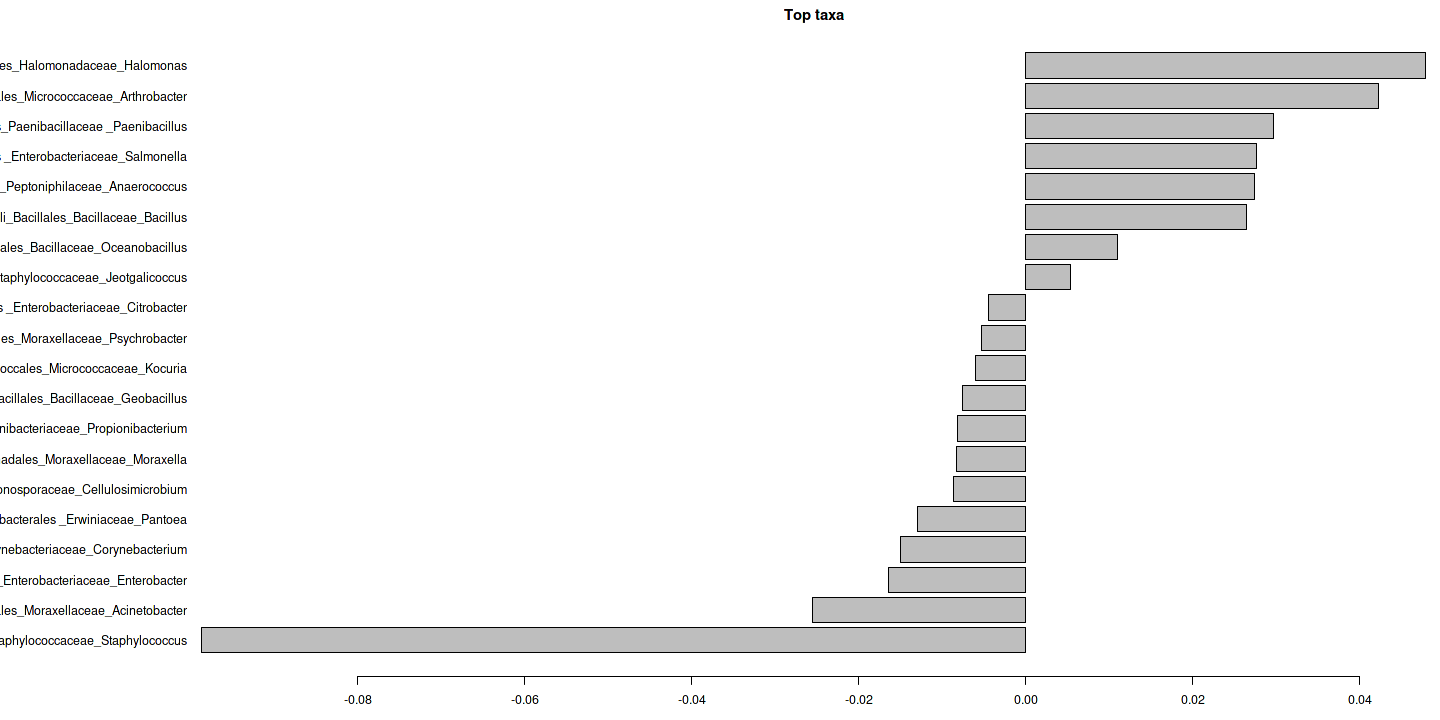
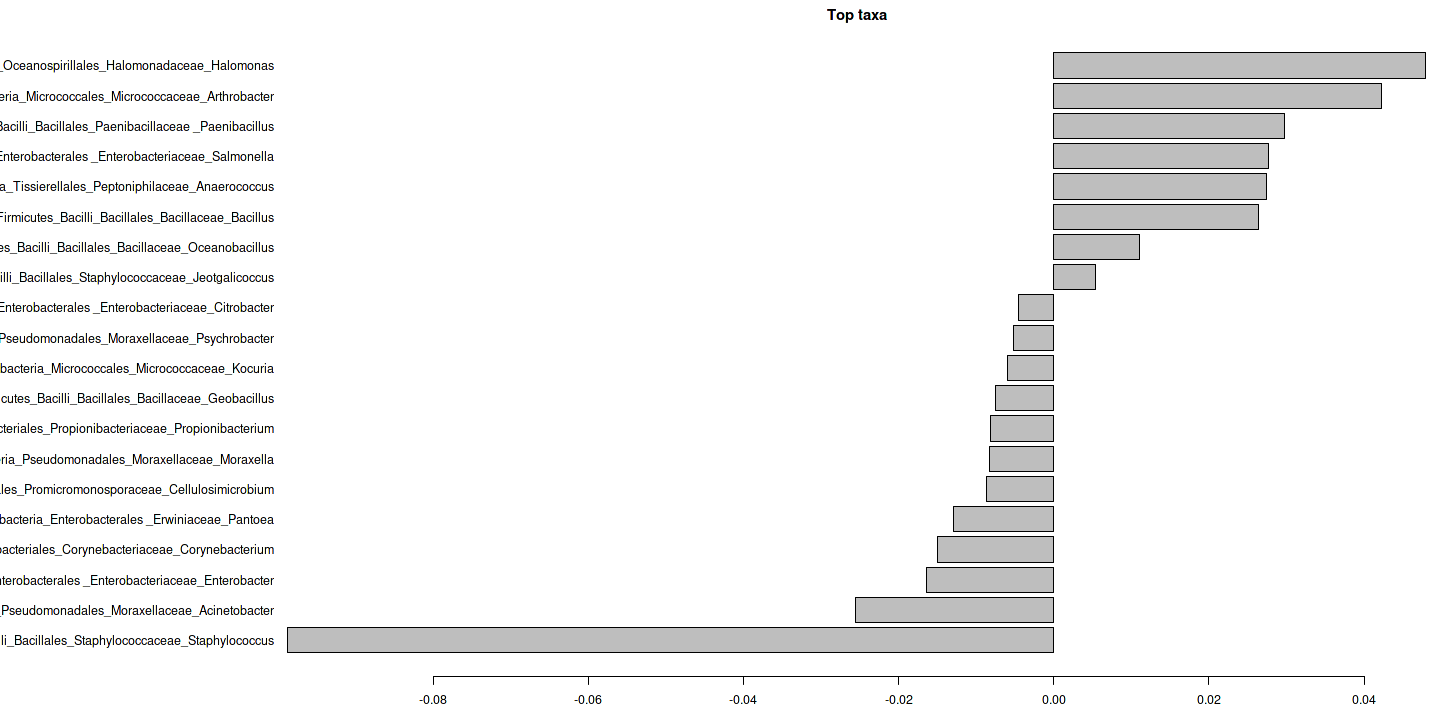
ok

diff --git a/locationanalysis.md b/locationanalysis.md
@@ -96,7 +96,7 @@ coef <- coefficients(permanova)["Geographical_location1", ]
 top.coef <- coef[rev(order(abs(coef)))[1:20]]
 names(top.coef) <- full.names[names(top.coef)]
 
-par(mar = c(3, 14, 2, 1))
+par(mar = c(3, 20, 2, 1))
 barplot(sort(top.coef), horiz = T, las = 1, main = "Top taxa")
 ```
 
